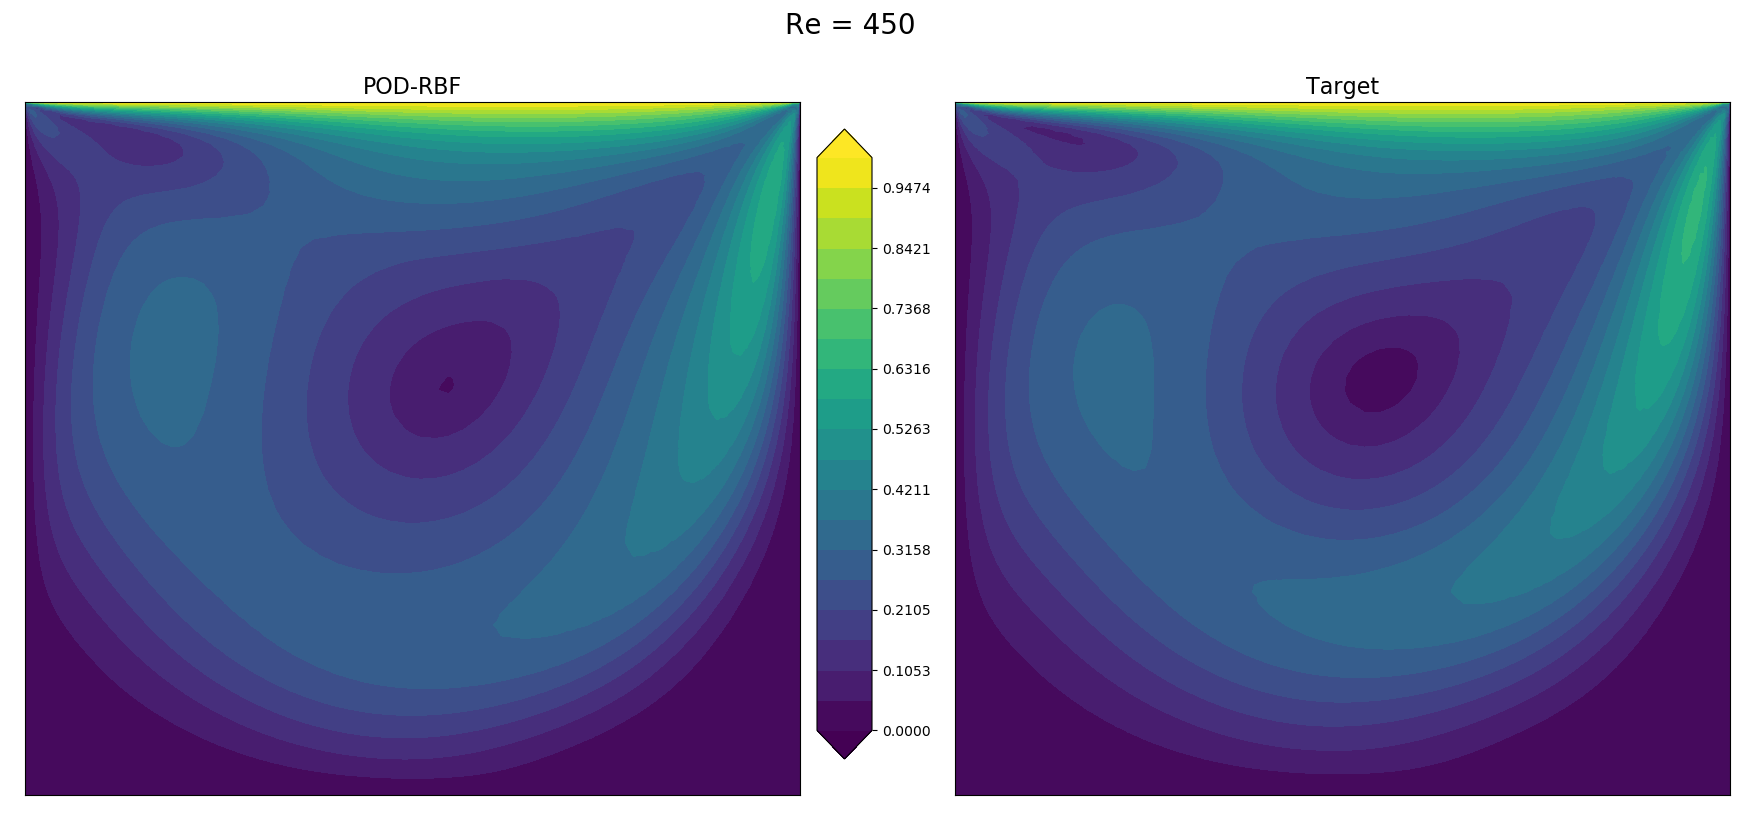
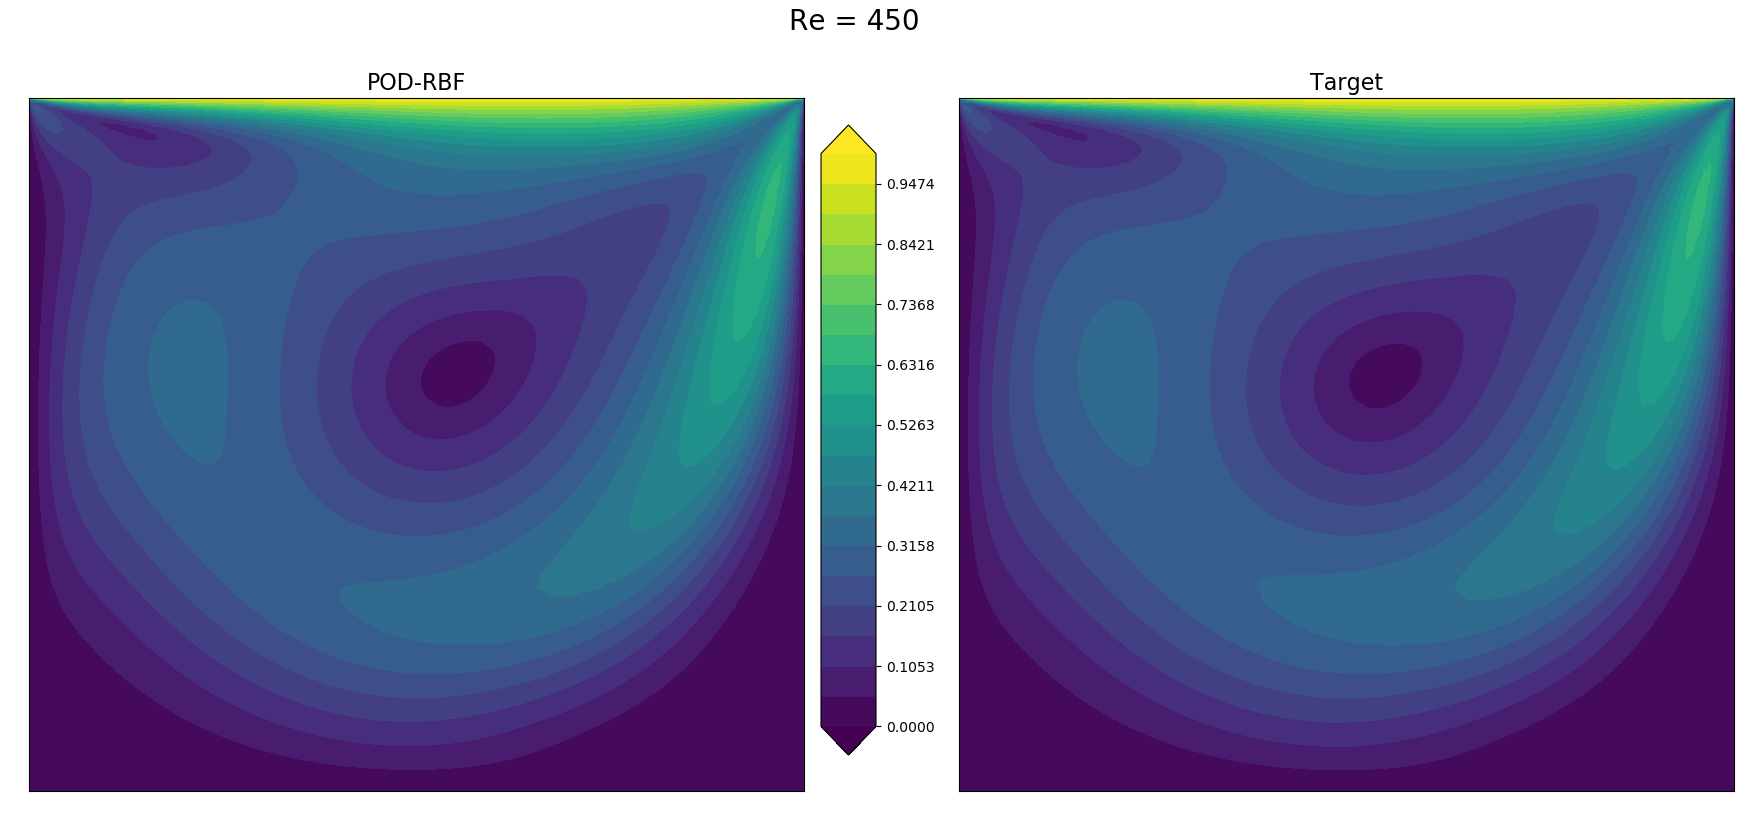
calc new basis using SVD instead of eigenvals/vecs

diff --git a/pod_rbf/pod_rbf.py b/pod_rbf/pod_rbf.py
@@ -3,59 +3,6 @@ import numpy as np
 from scipy.optimize import minimize_scalar
 
 
-def mkSnapshotMatrix(mypath_pattern, skiprows=1, usecols=(0), split=1):
-    """Assemble the snapshot matrix.
-
-    Parameters
-    ----------
-    filename_pattern : string
-        The full path of the files to be loaded. e.g. data%03d.csv for data001.csv, data002.csv...
-
-    Returns
-    -------
-    ndarray
-        The snapshot matrix.
-    """
-
-    split_path = os.path.split(mypath_pattern)
-    dirpath = split_path[0]
-    files = [f for f in os.listdir(dirpath) if os.path.isfile(os.path.join(dirpath, f))]
-    num_files = len(files)
-    assert os.path.splitext(files[0])[1] == ".csv", "File is not a .csv - {}".format(
-        files[0]
-    )
-    num_sample_points = len(
-        np.loadtxt(
-            os.path.join(dirpath, files[0]),
-            delimiter=",",
-            skiprows=skiprows,
-            usecols=usecols,
-            unpack=True,
-        )
-    )
-
-    snapshot = np.zeros((num_sample_points, num_files))
-    i = 0
-    for f in files:
-        assert os.path.splitext(f)[1] == ".csv", "File is not a .csv - {}".format(f)
-        vals = np.loadtxt(
-            os.path.join(dirpath, f),
-            delimiter=",",
-            skiprows=skiprows,
-            usecols=usecols,
-            unpack=True,
-        )
-        assert (
-            len(vals) == num_sample_points
-        ), "Number of sample points in {} is not consistent with the other files.".format(
-            f
-        )
-        snapshot[:, i] = vals
-        i += 1
-
-    return snapshot
-
-
 class pod_rbf:
     def __init__(self, energy_threshold=0.99):
         self.energy_threshold = energy_threshold
@@ -68,7 +15,7 @@ class pod_rbf:
         snapshot : ndarray
             The matrix containing data points for each parameter as columns.
         energyThreshold : float
-            The percent of energy to keep in the system.
+            The minimum percent of energy to keep in the system.
 
         Returns
         -------
@@ -77,40 +24,22 @@ class pod_rbf:
 
         """
 
-        # compute the covarience matrix and corresponding eigenvalues and eigenvectors
-        cov = np.matmul(np.transpose(self.snapshot), self.snapshot)
-        self.eig_vals, self.eig_vecs = np.linalg.eigh(cov)
-        self.eig_vals = np.abs(self.eig_vals.real)
-        self.eig_vecs = self.eig_vecs.real
-        # rearrange eigenvalues and eigenvectors from largest -> smallest
-        self.eig_vals = self.eig_vals[::-1]
-        self.eig_vecs = self.eig_vecs[:, ::-1]
+        # calculate the SVD of the snapshot
+        U, S, V = np.linalg.svd(self.snapshot)
 
-        # compute the energy in the system
-        self.energy = self.eig_vals / np.sum(self.eig_vals)
-
-        # truncate the eigenvalues and eigenvectors
-        total_energy = 0
-        self.trunc_id = None
-        for i in range(len(self.energy)):
-            total_energy += self.energy[i]
-            if total_energy > self.energy_threshold:
-                self.trunc_id = i + 1
-                break
-        if self.trunc_id is None:
-            raise AttributeError(
-                "trunc_id is None. energy_threshold is most likely set as a value higher then the energy contained in the first POD mode."
-            )
+        # calculate the truncated POD basis based on the amount of energy/POD modes required
+        self.cumul_energy = np.cumsum(S) / np.sum(S)
+        if self.energy_threshold >= 1:
+            self.truncated_cumul_energy = 1
+            trunc_id = len(S)
+            return U
+        elif self.energy_threshold < self.cumul_energy[0]:
+            trunc_id = 1
         else:
-            self.energy = self.energy[: self.trunc_id]
-            self.eig_vals = self.eig_vals[: self.trunc_id]
-            self.eig_vecs = self.eig_vecs[:, : self.trunc_id]
+            trunc_id = np.argmax(self.cumul_energy > self.energy_threshold)
 
-        # calculate the truncated POD basis
-        basis = np.matmul(self.snapshot, self.eig_vecs)
-        for i in range(len(self.eig_vals)):
-            basis[:, i] = basis[:, i] / np.sqrt(self.eig_vals[i])
-
+        self.truncated_energy = self.cumul_energy[trunc_id]
+        basis = U[:, : (trunc_id + 1)]
         return basis
 
     def _objectiveFuncShapeParam(self, shape_factor, sum, target_cond_num):
@@ -271,3 +200,56 @@ class pod_rbf:
         inference = np.matmul(self.basis, A)
 
         return inference[:, 0]
+
+
+def mkSnapshotMatrix(mypath_pattern, skiprows=1, usecols=(0), split=1):
+    """Assemble the snapshot matrix.
+
+    Parameters
+    ----------
+    filename_pattern : string
+        The full path of the files to be loaded. e.g. data%03d.csv for data001.csv, data002.csv...
+
+    Returns
+    -------
+    ndarray
+        The snapshot matrix.
+    """
+
+    split_path = os.path.split(mypath_pattern)
+    dirpath = split_path[0]
+    files = [f for f in os.listdir(dirpath) if os.path.isfile(os.path.join(dirpath, f))]
+    num_files = len(files)
+    assert os.path.splitext(files[0])[1] == ".csv", "File is not a .csv - {}".format(
+        files[0]
+    )
+    num_sample_points = len(
+        np.loadtxt(
+            os.path.join(dirpath, files[0]),
+            delimiter=",",
+            skiprows=skiprows,
+            usecols=usecols,
+            unpack=True,
+        )
+    )
+
+    snapshot = np.zeros((num_sample_points, num_files))
+    i = 0
+    for f in files:
+        assert os.path.splitext(f)[1] == ".csv", "File is not a .csv - {}".format(f)
+        vals = np.loadtxt(
+            os.path.join(dirpath, f),
+            delimiter=",",
+            skiprows=skiprows,
+            usecols=usecols,
+            unpack=True,
+        )
+        assert (
+            len(vals) == num_sample_points
+        ), "Number of sample points in {} is not consistent with the other files.".format(
+            f
+        )
+        snapshot[:, i] = vals
+        i += 1
+
+    return snapshot

diff --git a/README.md b/README.md
@@ -77,15 +77,17 @@ need to generate the array of input parameters that correspond to each snapshot.
 Note: it is extremely important that each input parameter maps to the same element number of the
 snapshot matrix. For example if the 5th column (index 4) then the input parameter used to generate
 that snapshot should be what you find in the 5th element (index 4) of the array, e.g.
-```train_snapshot[:,4] -> Re[4]```. the csv files are loaded in alpha-numeric order so that is why
+```train_snapshot[:,4] -> Re[4]```. The csv files are loaded in alpha-numeric order so that is why
 the input parameter array goes from  1 -> 1000.
 
 ---
 
-where ```Re``` is an array of input parameters that we are training the model on. Next, we create the model object and in only one method call, we can train our network.
+where ```Re``` is an array of input parameters that we are training the model on. Next, we create
+the model object and in only one method call, we can train our network. We choose to keep 99% of the energy in POD modes here, and that is the only input to the object creation. (99% is also the
+default, so you don't have to set that)
 
 ```python
->>> model = pod_rbf.pod_rbf()
+>>> model = pod_rbf.pod_rbf(energy_threshold=0.99)
 >>> model.train(train_snapshot, Re)
 ```
 
